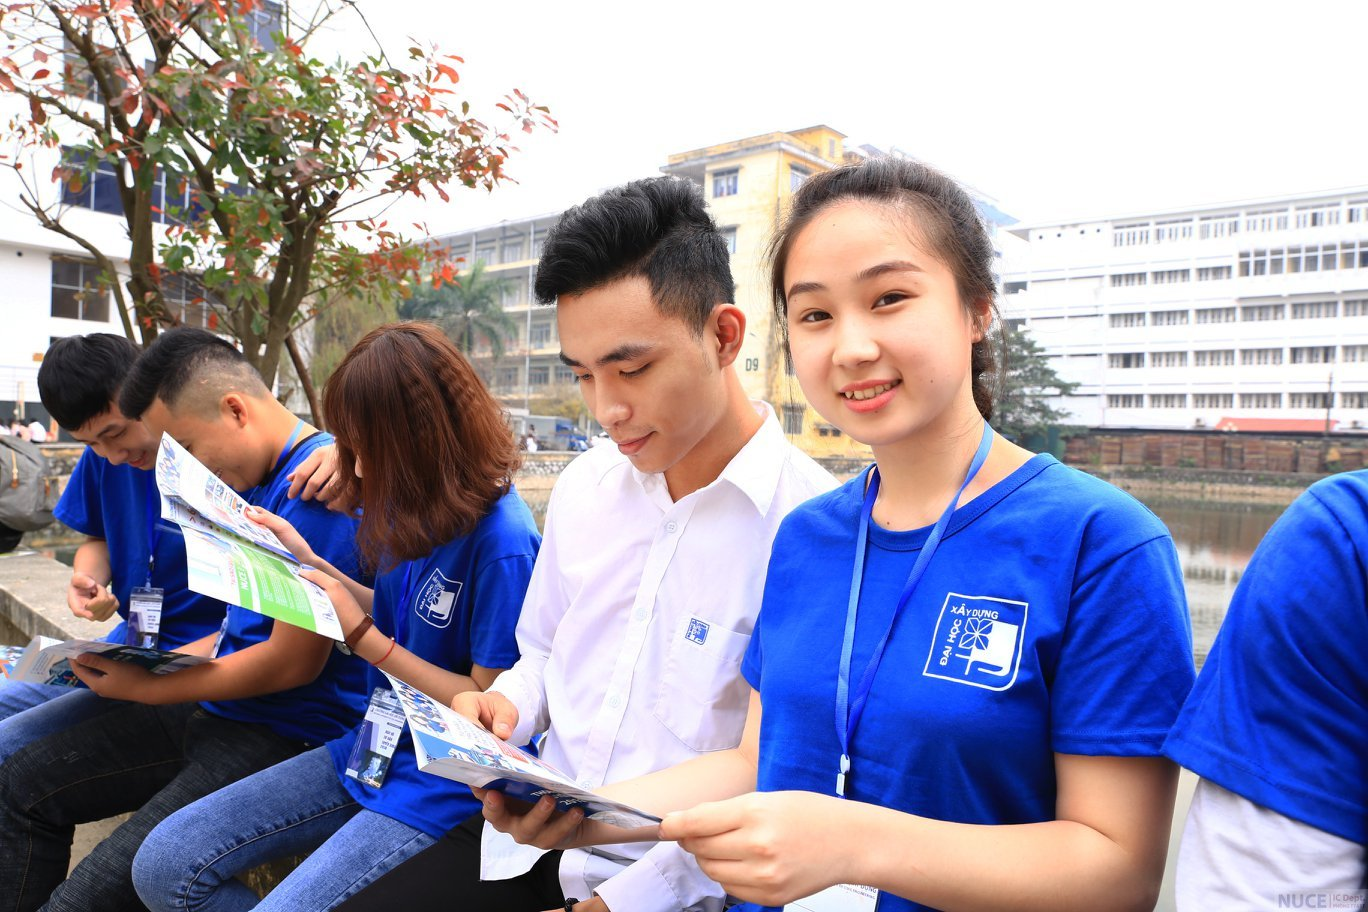
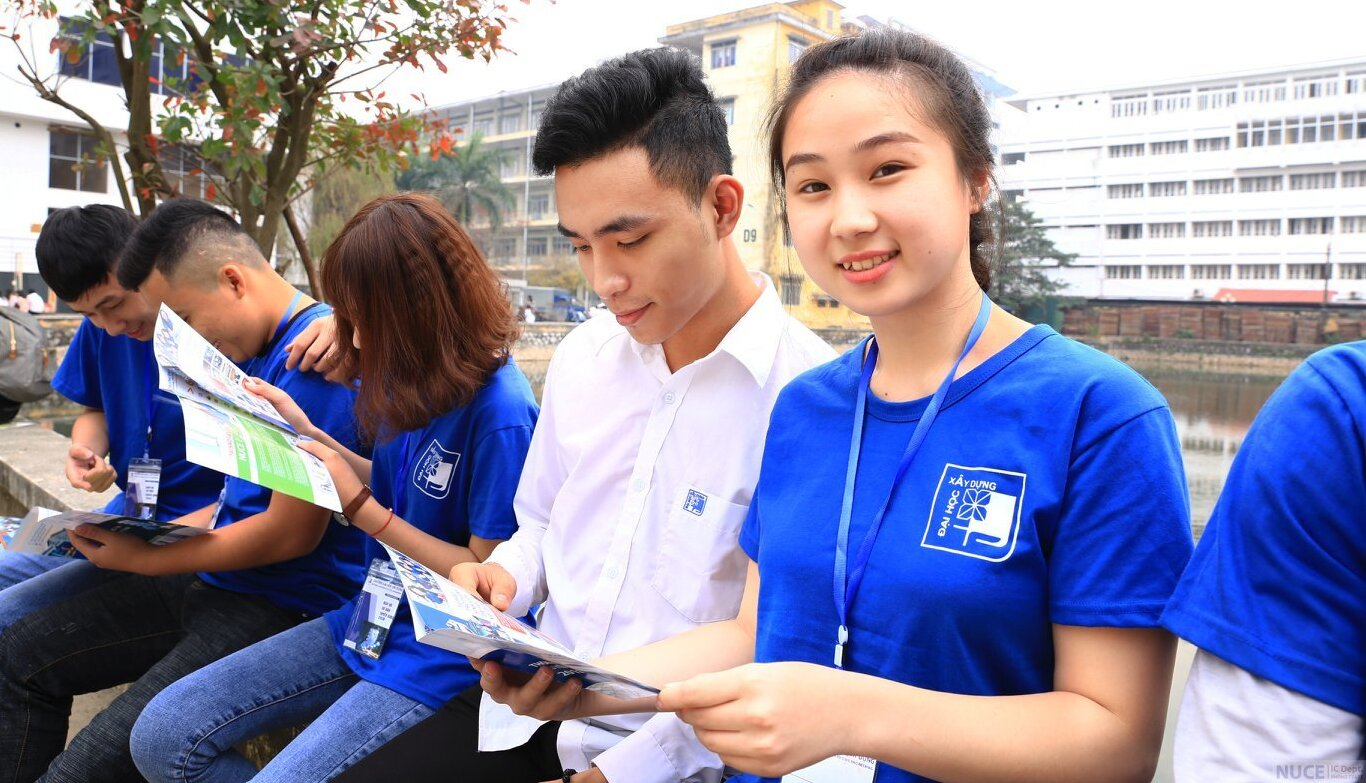
fix

diff --git a/index.html b/index.html
@@ -452,7 +452,8 @@
 
                         #banner-1597681882 .bg.bg-loaded {
                             background-image: url(uploads/3c5aeec1f90b32556b1a.jpg);
-                            background-position: bottom center;
+                            background-position: top center;
+                            
                         }
 
                         #banner-1597681882 .bg {
